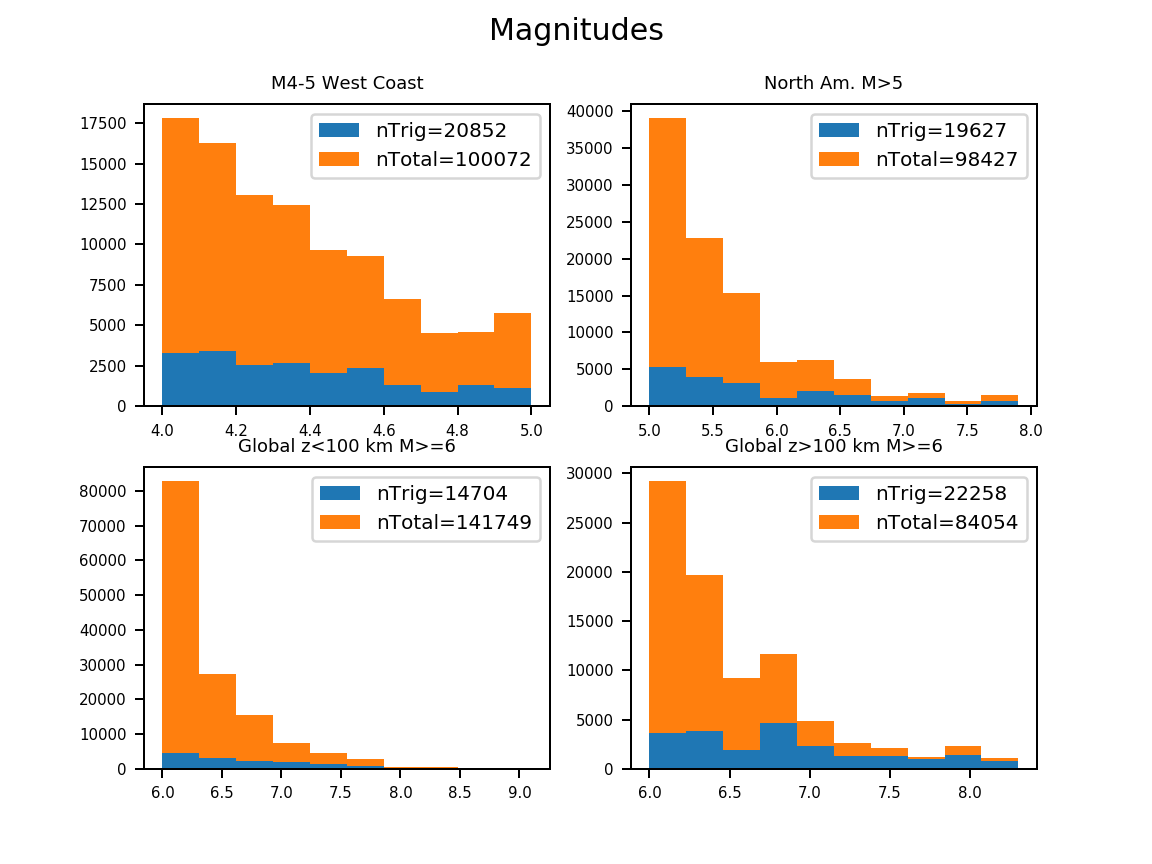
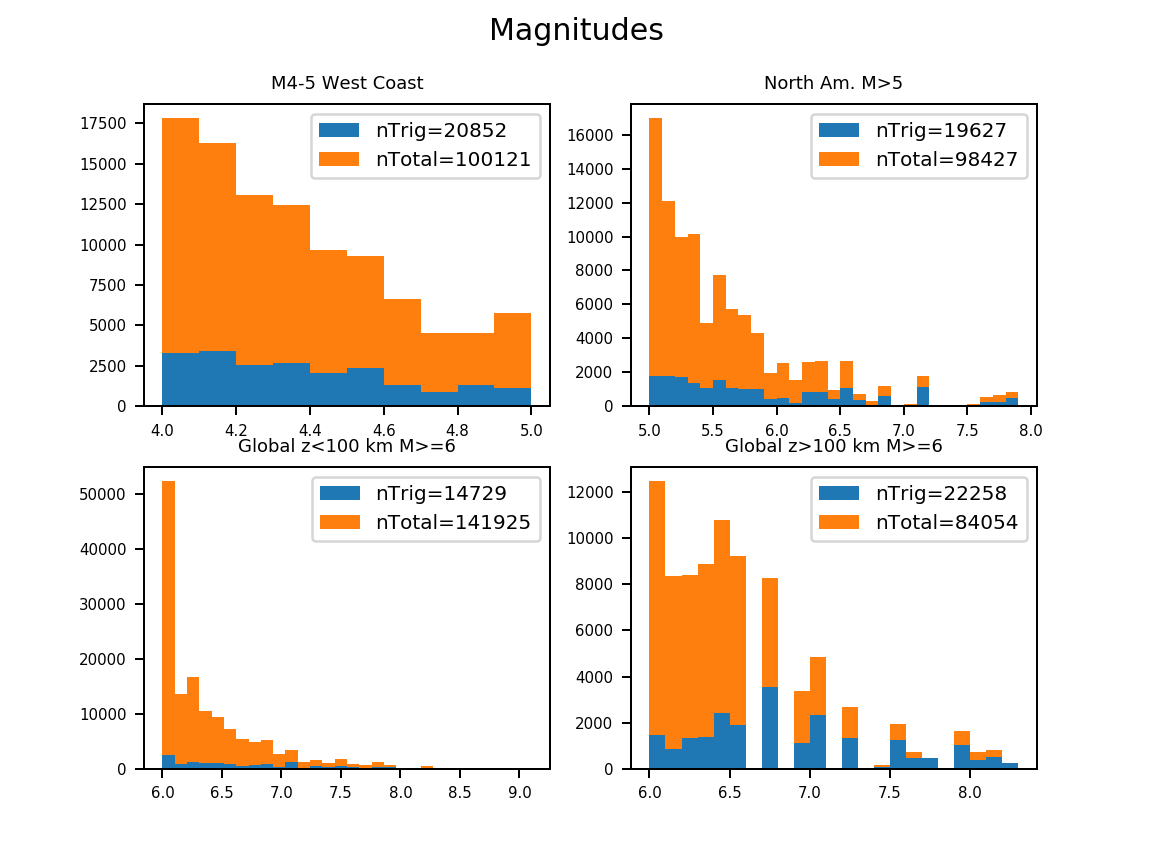
fixed nbins in Mag plot

diff --git a/make_histograms.py b/make_histograms.py
@@ -238,14 +238,17 @@ axs[0,0].set_title('M4-5 West Coast')
 axs[0,0].hist([xY[0],xN[0]],nbins,stacked=True,label=('nTrig='+str(len(xY[0])),'nTotal='+str(len(x[0]))))
 axs[0,0].legend(prop={'size': 8})
 
+nbins = int(10*(max(x[1]) - min(x[1])))
 axs[0,1].set_title('North Am. M>5')
 axs[0,1].hist([xY[1],xN[1]],nbins,stacked=True,label=('nTrig='+str(len(xY[1])),'nTotal='+str(len(x[1]))))
 axs[0,1].legend(prop={'size': 8})
 
+nbins = int(10*(max(x[2]) - min(x[2])))
 axs[1,0].set_title('Global z<100 km M>=6')
 axs[1,0].hist([xY[2],xN[2]],nbins,stacked=True,label=('nTrig='+str(len(xY[2])),'nTotal='+str(len(x[2]))))
 axs[1,0].legend(prop={'size': 8})
 
+nbins = int(10*(max(x[3]) - min(x[3])))
 axs[1,1].set_title('Global z>100 km M>=6')
 axs[1,1].hist([xY[3],xN[3]],nbins,stacked=True,label=('nTrig='+str(len(xY[3])),'nTotal='+str(len(x[3]))))
 axs[1,1].legend(prop={'size': 8})
@@ -277,7 +280,7 @@ axs[1,0].legend(prop={'size': 8})
 axs[1,1].set_title('Global z>100 km M>=6')
 axs[1,1].hist([xY[3],xN[3]],nbins,stacked=True,label=('nTrig='+str(len(xY[3])),'nTotal='+str(len(x[3]))))
 axs[1,1].legend(prop={'size': 8})
-fig.suptitle('STA/LTA ratios',fontsize=12)
+fig.suptitle('STA/LTA ratios (saturated @75)',fontsize=12)
 figname = 'Staltas_histogram.png'
 plt.savefig(figname, dpi=180)
 
